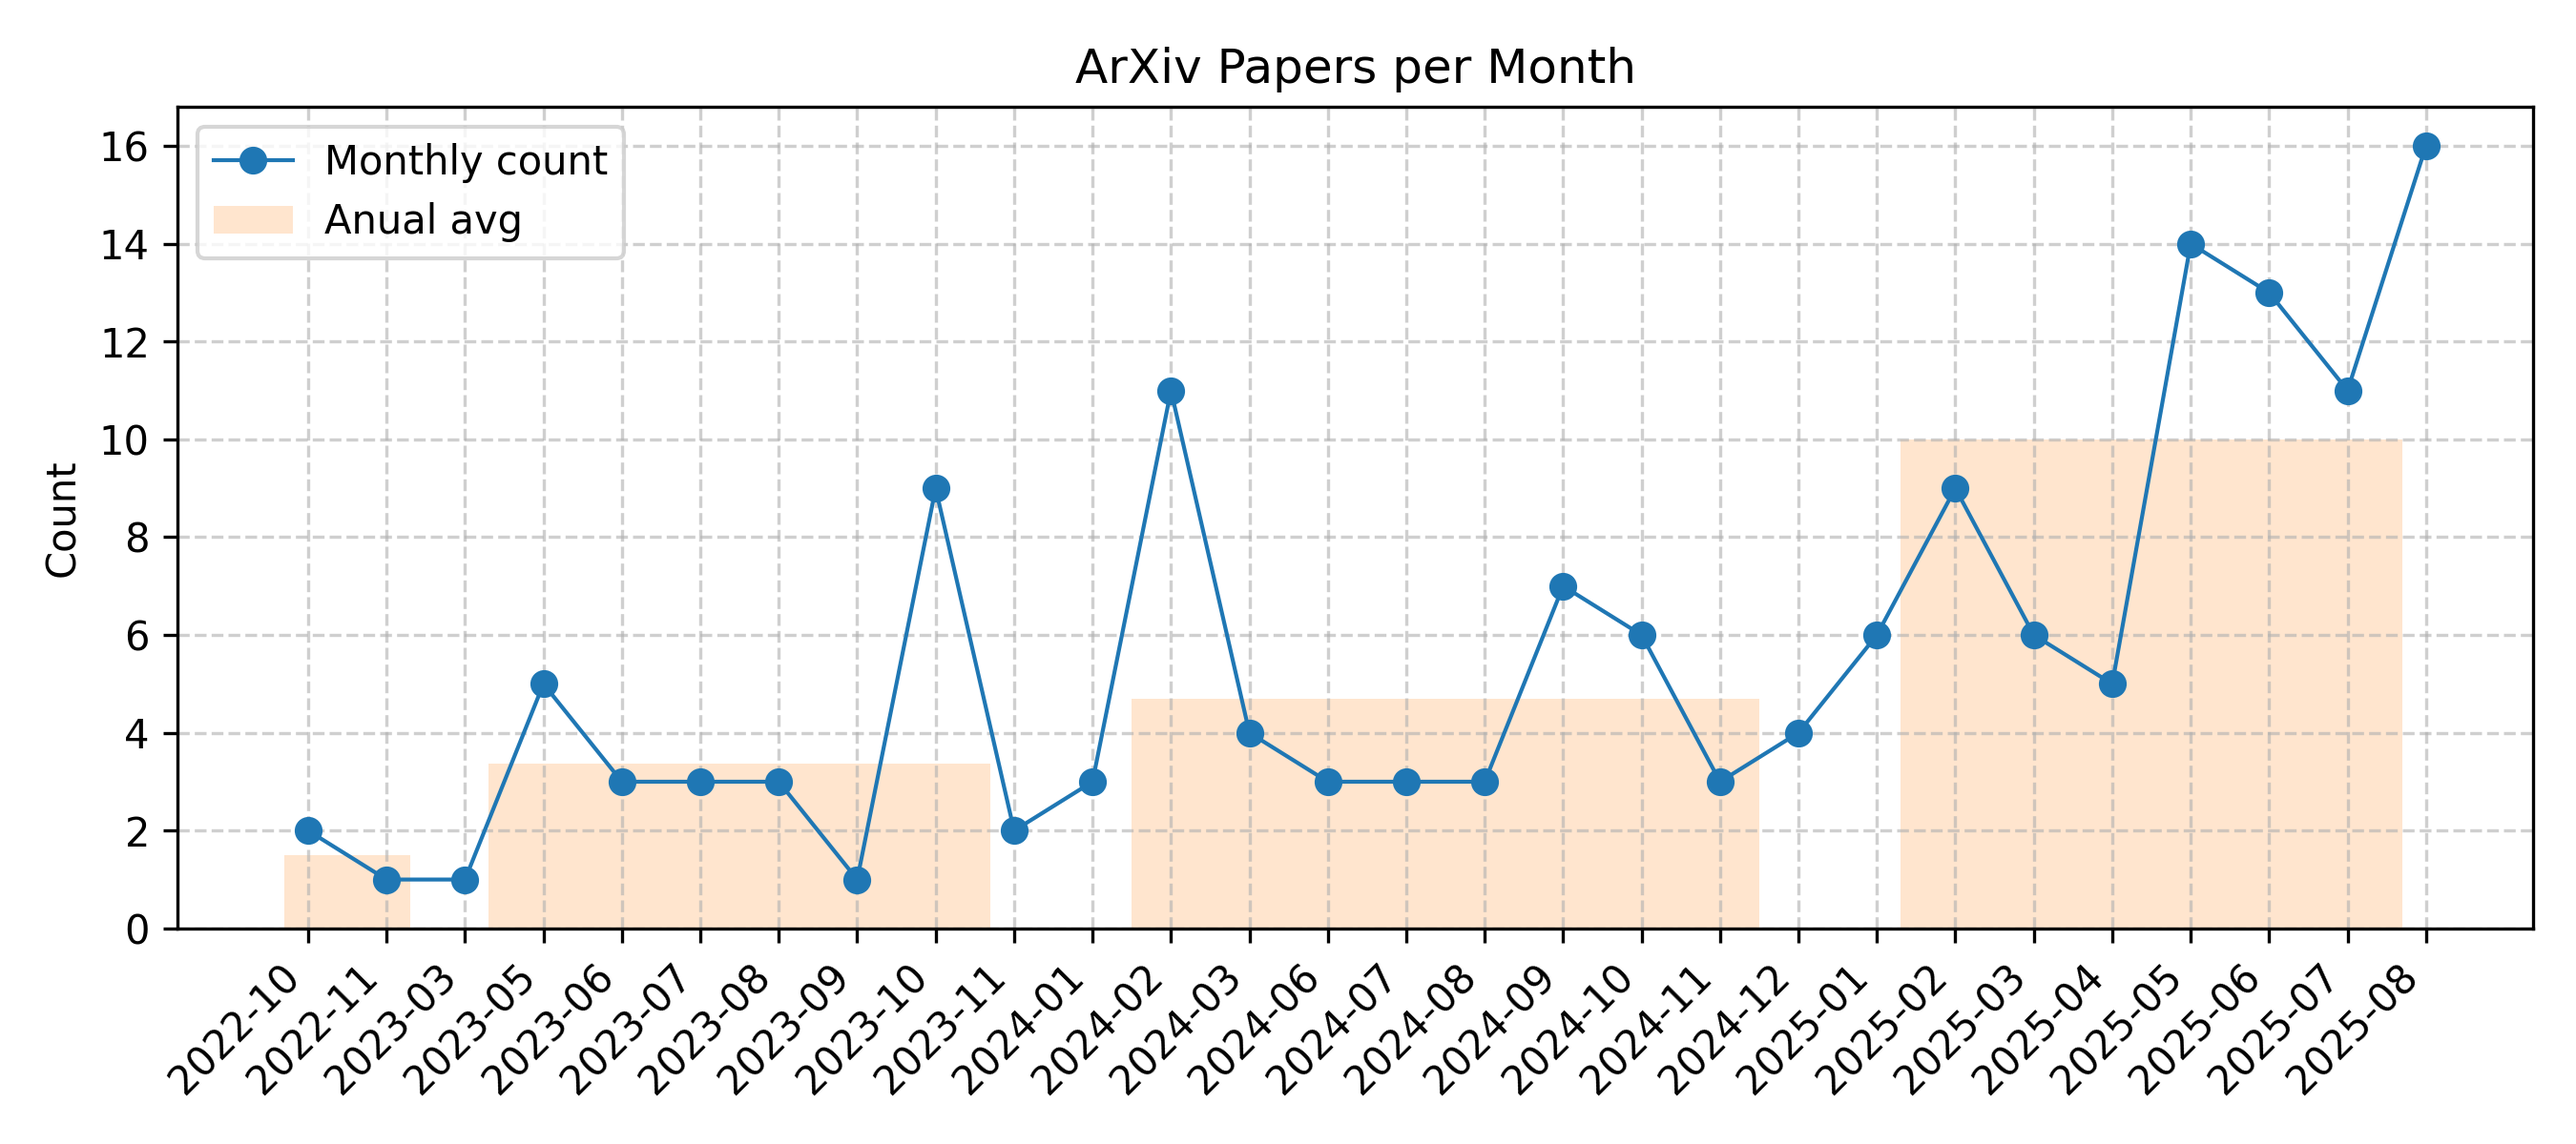
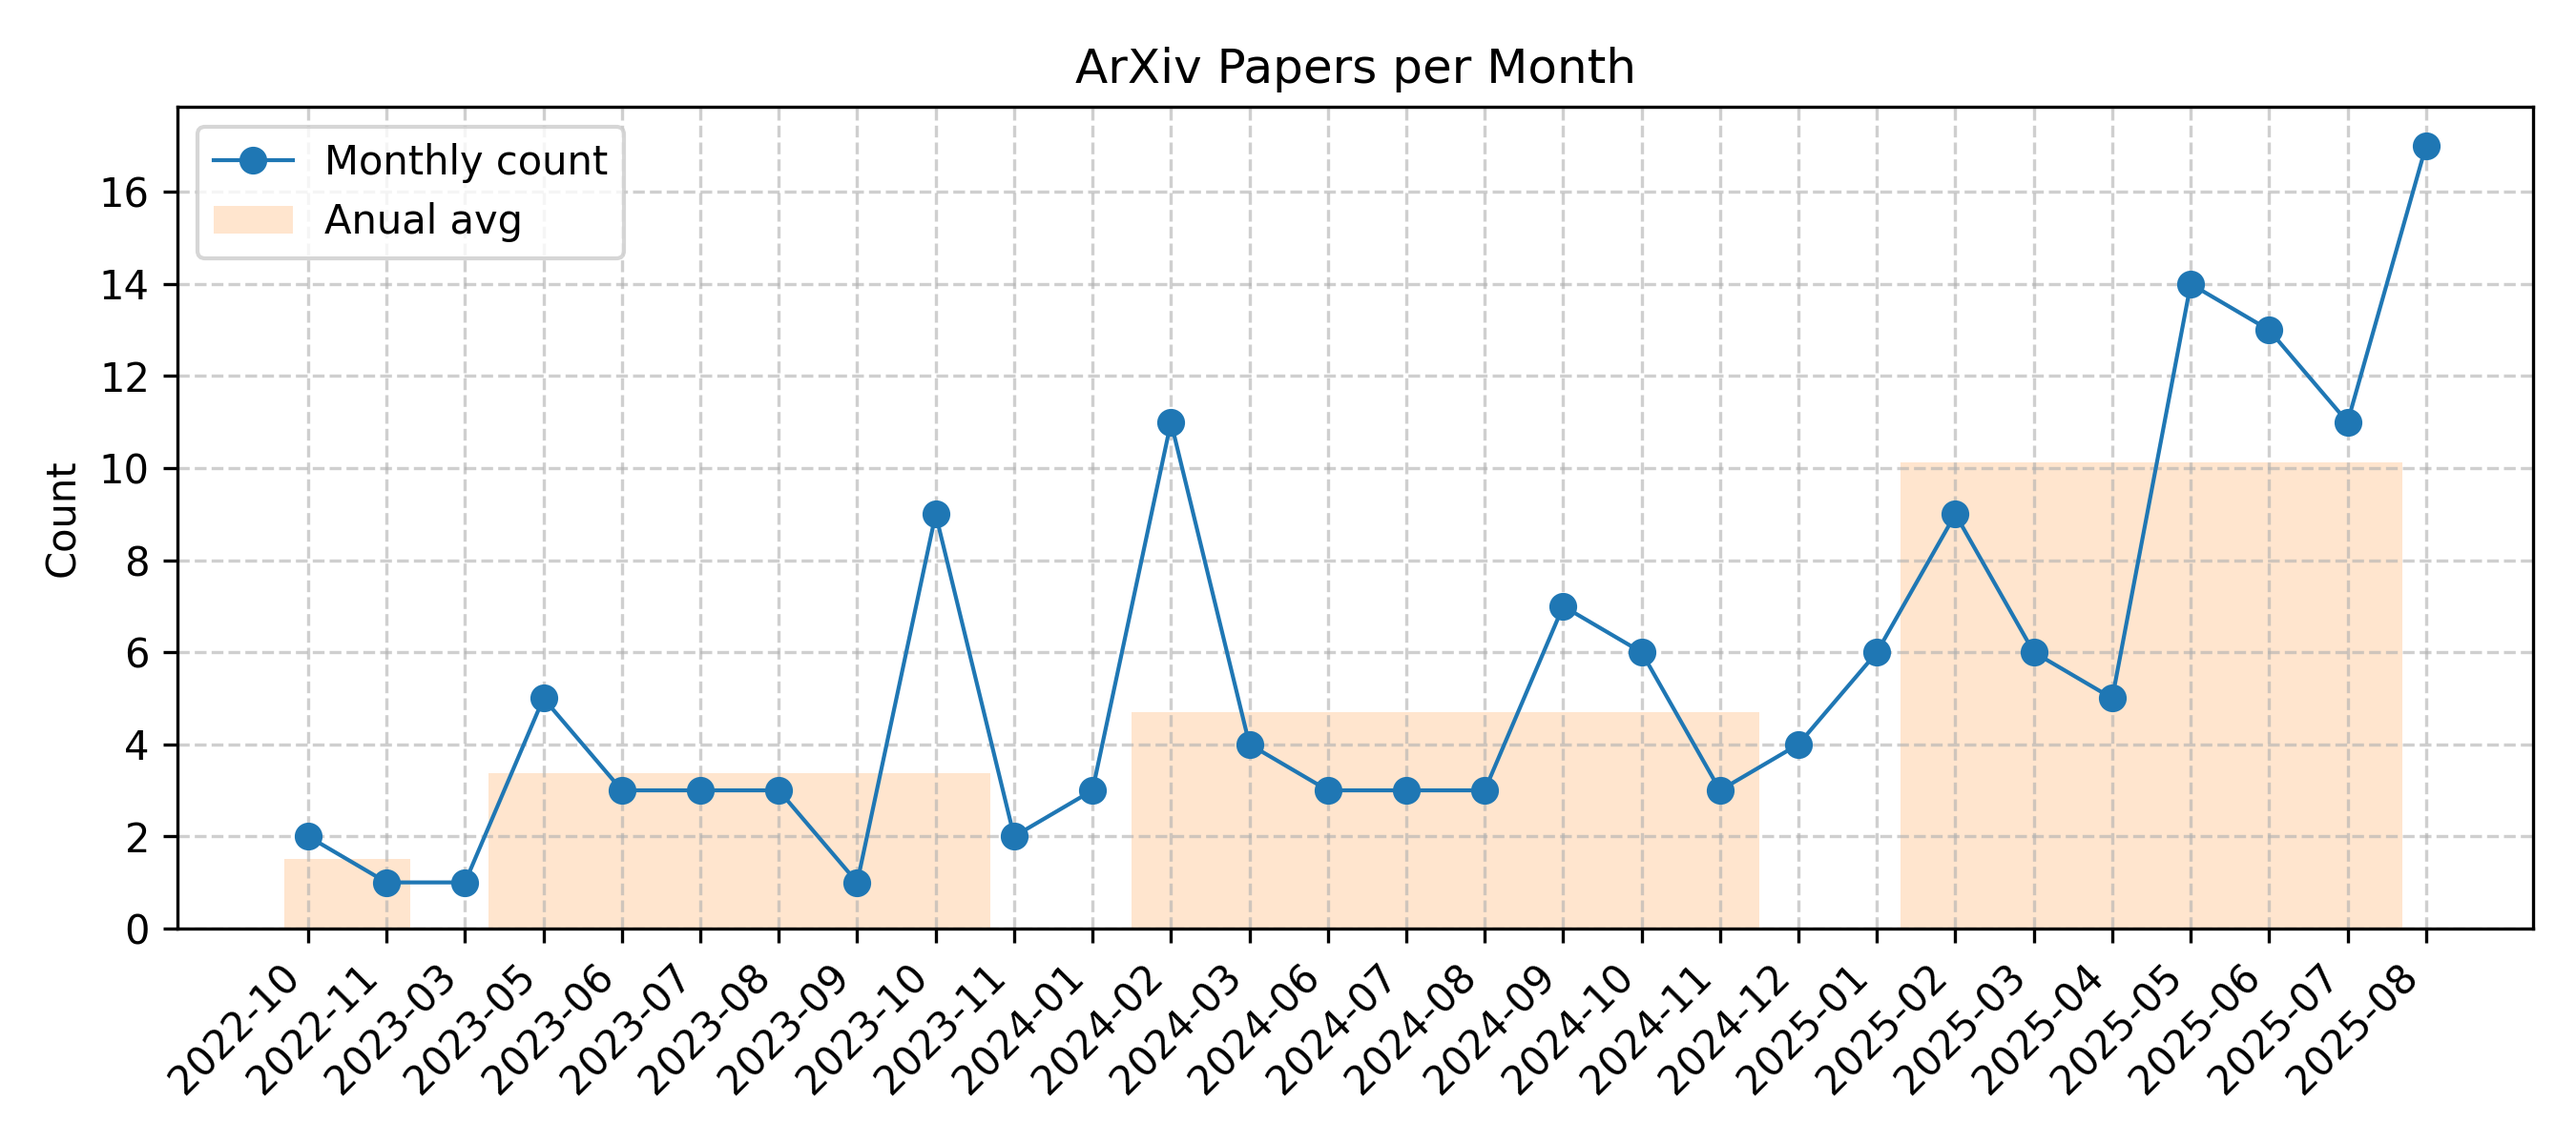
Github Action Automatic Update Diffusion NLP Arxiv Papers

diff --git a/README.md b/README.md
@@ -5,7 +5,7 @@
 
 For more carefully curated articles, you can refer to this [repository](https://github.com/bansky-cl/Diffusion_NLP_Papers).
 
-## Updated on 2025.08.21
+## Updated on 2025.08.22
 
 ![Monthly Trend](imgs/trend.png)
 
@@ -13,6 +13,7 @@ For more carefully curated articles, you can refer to this [repository](https://
 
 |Date|Title|label|Abstract|PDF|Code|
 |---|---|---|---|---|---|
+|**2025-08-21**|**Dream 7B: Diffusion Large Language Models**|cs.CL| <details><summary>Full Abstract</summary>We introduce Dream 7B, the most powerful open diffusion large language model to date. Unlike autoregressive (AR) models that generate tokens sequentially, Dream 7B employs discrete diffusion modeling to refine sequences in parallel through iterative denoising. Our model consistently outperforms existing diffusion language models on general, mathematical, and coding tasks. Dream 7B demonstrates superior planning abilities and inference flexibility, including arbitrary-order generation, infilling capabilities, and tunable quality-speed trade-offs. These results are achieved through simple yet effective training techniques, including AR-based LLM initialization and context-adaptive token-level noise rescheduling. We release both Dream-Base and Dream-Instruct to facilitate further research in diffusion-based language modeling.</details>|[2508.15487v1](http://arxiv.org/abs/2508.15487v1)| null|
 |**2025-08-20**|**Quantization Meets dLLMs: A Systematic Study of Post-training Quantization for Diffusion LLMs**|cs.CL, cs.AI| <details><summary>Full Abstract</summary>Recent advances in diffusion large language models (dLLMs) have introduced a promising alternative to autoregressive (AR) LLMs for natural language generation tasks, leveraging full attention and denoising-based decoding strategies. However, the deployment of these models on edge devices remains challenging due to their massive parameter scale and high resource demands. While post-training quantization (PTQ) has emerged as a widely adopted technique for compressing AR LLMs, its applicability to dLLMs remains largely unexplored. In this work, we present the first systematic study on quantizing diffusion-based language models. We begin by identifying the presence of activation outliers, characterized by abnormally large activation values that dominate the dynamic range. These outliers pose a key challenge to low-bit quantization, as they make it difficult to preserve precision for the majority of values. More importantly, we implement state-of-the-art PTQ methods and conduct a comprehensive evaluation across multiple task types and model variants. Our analysis is structured along four key dimensions: bit-width, quantization method, task category, and model type. Through this multi-perspective evaluation, we offer practical insights into the quantization behavior of dLLMs under different configurations. We hope our findings provide a foundation for future research in efficient dLLM deployment. All codes and experimental setups will be released to support the community.</details>|[2508.14896v1](http://arxiv.org/abs/2508.14896v1)| null|
 |**2025-08-19**|**DPad: Efficient Diffusion Language Models with Suffix Dropout**|cs.CL, cs.LG| <details><summary>Full Abstract</summary>Diffusion-based Large Language Models (dLLMs) parallelize text generation by framing decoding as a denoising process, but suffer from high computational overhead since they predict all future suffix tokens at each step while retaining only a small fraction. We propose Diffusion Scratchpad (DPad), a training-free method that restricts attention to a small set of nearby suffix tokens, preserving fidelity while eliminating redundancy. DPad integrates two strategies: (i) a sliding window, which maintains a fixed-length suffix window, and (ii) distance-decay dropout, which deterministically removes distant suffix tokens before attention computation. This simple design is compatible with existing optimizations such as prefix caching and can be implemented with only a few lines of code. Comprehensive evaluations across multiple benchmarks on LLaDA-1.5 and Dream models demonstrate that DPad delivers up to $\mathbf{61.4\times}$ speedup over vanilla dLLMs while maintaining comparable accuracy, highlighting its potential for efficient and scalable long-sequence inference. Our code is available at https://github.com/Crys-Chen/DPad.</details>|[2508.14148v1](http://arxiv.org/abs/2508.14148v1)| null|
 |**2025-08-14**|**DLLMQuant: Quantizing Diffusion-based Large Language Models**|cs.CL, cs.AI| <details><summary>Full Abstract</summary>Diffusion-based large language models (DLLMs) have shown promise for non-autoregressive text generation, but their deployment is constrained by large model sizes and heavy computational costs. Post-training quantization (PTQ), a widely used method for compressing and accelerating Large Language Models (LLMs), suffers from severe accuracy degradation and reduced generalization performance when directly applied to DLLMs (e.g., AWQ suffers a 16% accuracy drop on LLADA under W4A4). This paper explores how DLLMs' key mechanisms - dynamic masking, iterative generation, bidirectional attention - clash with quantization. We identify three core issues: 1) Iterative generation and dynamic masking ratios lead to distinct token distributions across decoding steps, which are not adequately captured by existing PTQ calibration methods; 2) Quantization errors are accumulated and amplified progressively during iteration in DLLMs, causing quantized models to perform worse as decoding steps progress; 3) Unmasked tokens stabilize while masked remain probabilistic, making overall feature distribution incompatible with existing PTQ methods. To address these issues, we propose DLLMQuant, a PTQ framework tailored for DLLMs, which incorporates three novel techniques: 1) Temporal-Mask Adaptive Sampling (TMAS), a calibration method that accounts for both time and mask factors, with the capacity to capture distributions across timesteps. 2) Interaction-Aware Activation Quantization (IA-AQ), which utilizes bidirectional attention's interaction signals to dynamically allocate quantization resources. 3) Certainty-Guided Quantization (CGQ), which integrates mask status and token scores as key weighting criteria into error compensation, making weight quantization more suitable for DLLMs. Experiments show that DLLMQuant achieves significant performance gains while enhancing efficiency.</details>|[2508.14090v1](http://arxiv.org/abs/2508.14090v1)| null|
@@ -171,7 +172,7 @@ For more carefully curated articles, you can refer to this [repository](https://
 |**2022-11-01**|**DiffusER: Discrete Diffusion via Edit-based Reconstruction**|cs.CL, cs.LG|<details><summary>Full Abstract</summary>In text generation, models that generate text from scratch one token at a time are currently the dominant paradigm. Despite being performant, these models lack the ability to revise existing text, which limits their usability in many practical scenarios. We look to address this, with DiffusER (Diffusion via Edit-based Reconstruction), a new edit-based generative model for text based on denoising diffusion models -- a class of models that use a Markov chain of denoising steps to incrementally generate data. DiffusER is not only a strong generative model in general, rivalling autoregressive models on several tasks spanning machine translation, summarization, and style transfer; it can also perform other varieties of generation that standard autoregressive models are not well-suited for. For instance, we demonstrate that DiffusER makes it possible for a user to condition generation on a prototype, or an incomplete sequence, and continue revising based on previous edit steps.</details>|[2210.16886v1](http://arxiv.org/abs/2210.16886v1)|null|
 |**2023-02-01**|**Diffuser: Efficient Transformers with Multi-hop Attention Diffusion for Long Sequences**|cs.LG, cs.CL|<details><summary>Full Abstract</summary>Efficient Transformers have been developed for long sequence modeling, due to their subquadratic memory and time complexity. Sparse Transformer is a popular approach to improving the efficiency of Transformers by restricting self-attention to locations specified by the predefined sparse patterns. However, leveraging sparsity may sacrifice expressiveness compared to full-attention, when important token correlations are multiple hops away. To combine advantages of both the efficiency of sparse transformer and the expressiveness of full-attention Transformer, we propose \textit{Diffuser}, a new state-of-the-art efficient Transformer. Diffuser incorporates all token interactions within one attention layer while maintaining low computation and memory costs. The key idea is to expand the receptive field of sparse attention using Attention Diffusion, which computes multi-hop token correlations based on all paths between corresponding disconnected tokens, besides attention among neighboring tokens. Theoretically, we show the expressiveness of Diffuser as a universal sequence approximator for sequence-to-sequence modeling, and investigate its ability to approximate full-attention by analyzing the graph expander property from the spectral perspective. Experimentally, we investigate the effectiveness of Diffuser with extensive evaluations, including language modeling, image modeling, and Long Range Arena (LRA). Evaluation results show that Diffuser achieves improvements by an average of 0.94% on text classification tasks and 2.30% on LRA, with 1.67$\times$ memory savings compared to state-of-the-art benchmarks, which demonstrates superior performance of Diffuser in both expressiveness and efficiency aspects.</details>|[2210.11794v2](http://arxiv.org/abs/2210.11794v2)|**[link](https://github.com/asFeng/Diffuser)**|
 
-<p align=right>(<a href=#Updated-on-20250821>back to top</a>)</p>
+<p align=right>(<a href=#Updated-on-20250822>back to top</a>)</p>
 
 [contributors-shield]: https://img.shields.io/github/contributors/bansky-cl/diffusion-nlp-paper-arxiv.svg?style=for-the-badge
 [contributors-url]: https://github.com/bansky-cl/diffusion-nlp-paper-arxiv/graphs/contributors
